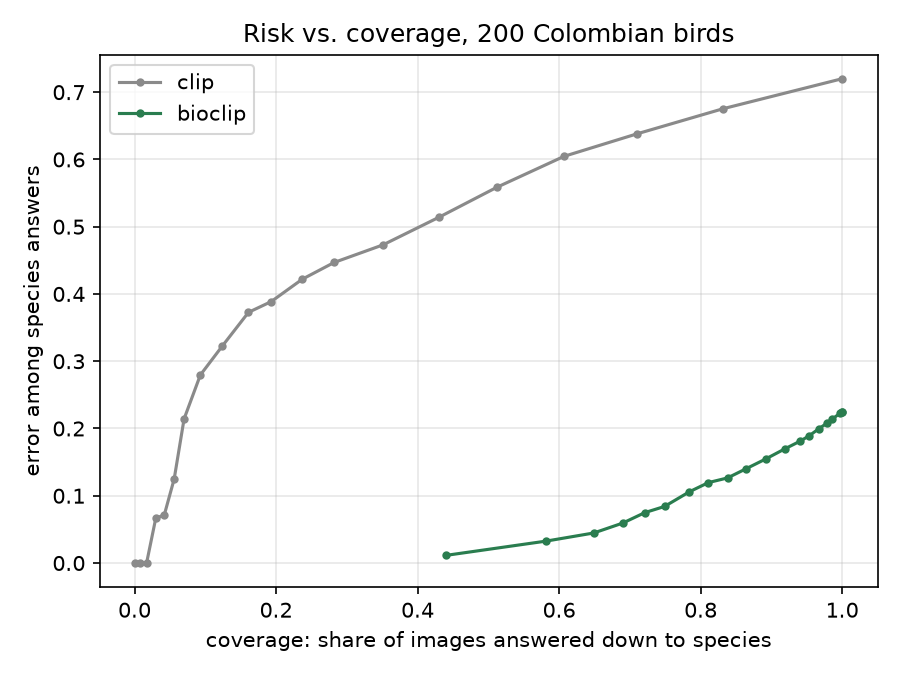
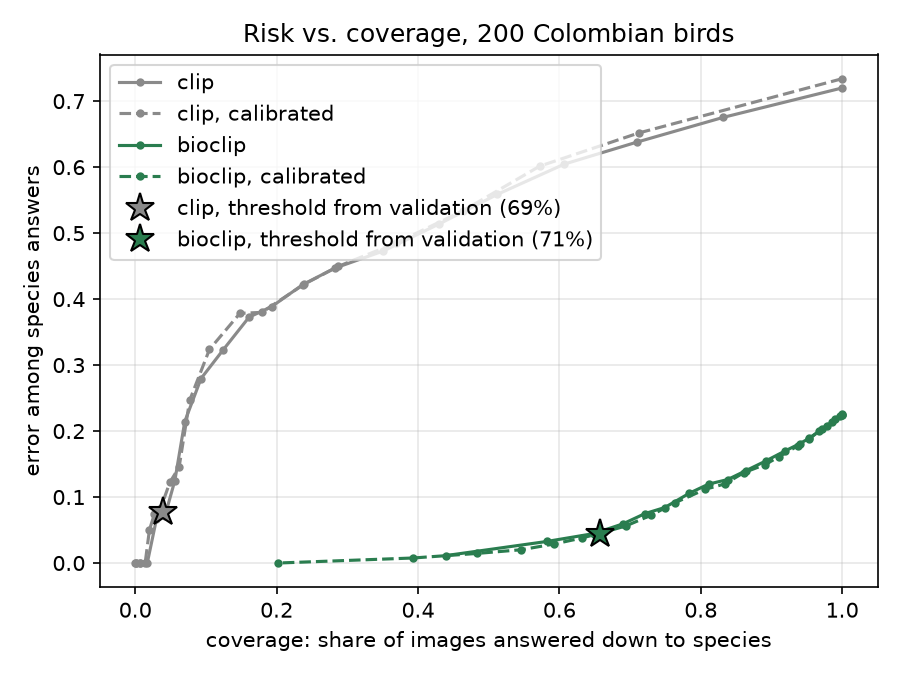
results: calibrated models at the threshold picked on validation, embedding space notes

diff --git a/results/aves_colombia/README.md b/results/aves_colombia/README.md
@@ -49,15 +49,60 @@ the y axis is how many of those species answers are wrong.
 At τ = 0.8, BioCLIP answers 721 of the 1000 photos down to species. The rest stop at genus (40),
 family (79), order (70) or just "a bird" (90). CLIP reaches species on 42 photos and says only "a bird" on 492.
 
+## Calibration and the threshold, chosen on a separate validation set
+
+The threshold above is just swept over the test set. To pick one honestly I built a **validation set**:
+another 5 photos per species from iNaturalist, also from 2024 on, none of them shared with the test set
+(`build_testset.py --exclude`). On that set only:
+
+1. **Temperature scaling.** Fit the logit scale that best predicts the true species (lowest negative log-likelihood).
+   BioCLIP's goes from 100 to 64, so its probabilities get softer. CLIP's from 100 to 84.
+2. **Pick τ.** The threshold that answers the most photos down to species while keeping wrong answers at or below 5%:
+   **71%** for BioCLIP.
+
+Then, once, on the test set:
+
+| | BioCLIP, original | BioCLIP, calibrated |
+|---|---:|---:|
+| expected calibration error | 0.077 | **0.027** |
+| wrong answers with > 90% confidence | 29 of 222 | **7 of 222** |
+| at τ = 71% (from validation): photos answered down to species | | **65.7%** |
+| at τ = 71%: wrong answers, at any rank | | **4.1%** (target was ≤ 5%) |
+
+([`calibration.csv`](calibration.csv), [`data/calibration.json`](../../data/calibration.json))
+
+What calibration did **not** do: move the risk-coverage curve. The dashed lines in the plot sit on top of the solid ones.
+A temperature changes how confident the probabilities are, not which photos are more confident than others, so the
+same trade-off is available either way. What it changes is the meaning of the number: after calibration,
+"71% sure" is close to right 71% of the time, and the confident mistakes mostly disappear.
+CLIP's numbers barely move (calibration error 0.042 → 0.041); at its own validation threshold it only reaches species on 3.9% of the photos.
+
+## What the image space looks like
+
+![umap](umap_by_order.png)
+
+For each photo, the share of its 10 nearest photos (cosine, full 512-d image embedding) that share its rank:
+
+| | order | family | genus | species |
+|---|---:|---:|---:|---:|
+| CLIP | 61.8% | 36.1% | 14.6% | 11.4% |
+| BioCLIP | 72.0% | 53.7% | 29.0% | 23.7% |
+
+([`embedding_clusters.csv`](embedding_clusters.csv))
+
+Even before any text is involved, BioCLIP's image space puts relatives together about twice as often at genus and species level.
+I first tried the silhouette score by order; it came out near zero for both models (orders are very uneven, half the
+photos are Passeriformes), so it said nothing useful and I replaced it.
+
 ## What I take from it
 
 - **Abstention is only useful if the model knows something.** With BioCLIP, the threshold trades coverage
   for error smoothly: going from τ = none to 0.9 cuts the species error from 22.5% to 4.5% and still answers
   65% of the photos at species level. With CLIP the same trade is useless: to get under 10% error it has to
   give up on 96% of the photos.
-- **BioCLIP is overconfident.** 29 of its 222 wrong species answers come with more than 90% probability,
+- **BioCLIP is overconfident out of the box.** 29 of its 222 wrong species answers come with more than 90% probability,
   and even at τ = 0.99 it still makes mistakes. CLIP has the opposite problem: none of its mistakes are
-  above 90%, but it is rarely above 90% about anything.
+  above 90%, but it is rarely above 90% about anything. Temperature scaling fixes most of BioCLIP's (29 → 7).
 - **Mistakes didn't get milder, there are just fewer of them.** I expected BioCLIP's wrong answers to stay
   closer to the truth in the tree. They barely do: a wrong species shares on average 4.21 of 7 ranks with the
   right one for BioCLIP and 4.04 for CLIP. About a third of BioCLIP's mistakes (71 of 222) already pick
@@ -77,12 +122,11 @@ family (79), order (70) or just "a bird" (90). CLIP reaches species on 42 photos
   different photos (between the two builds, 989 of 993 photos were the same).
 - 5 photos per species is small. A single photo moves a species' accuracy by 20 points, so per-species
   numbers aren't meaningful yet; the totals over 1000 images are.
-- τ is not chosen yet. The table above describes the whole curve; picking τ has to happen on a separate
-  validation split, not on this test set.
+- The validation and test sets come from the same source and period, so they are as similar as two samples can be.
+  Photos from somewhere else (my own phone, another country) could behave differently.
 - Only the first photo of each observation is used, and I haven't checked them by hand.
 
 ## Next
 
-- Split validation / test and pick τ on validation.
-- Calibration: check if a temperature on BioCLIP's logits fixes the overconfidence before thresholding.
-- Look at the 29 confident mistakes one by one.
+- Look at the 7 mistakes that are still confident, one by one.
+- Try my own photos.
